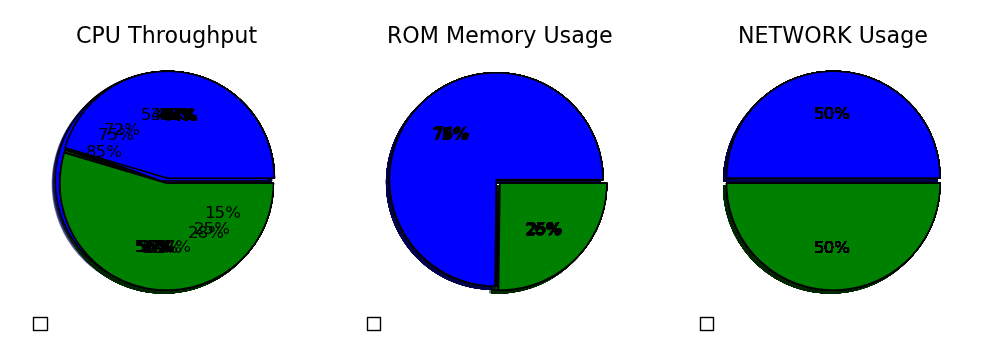
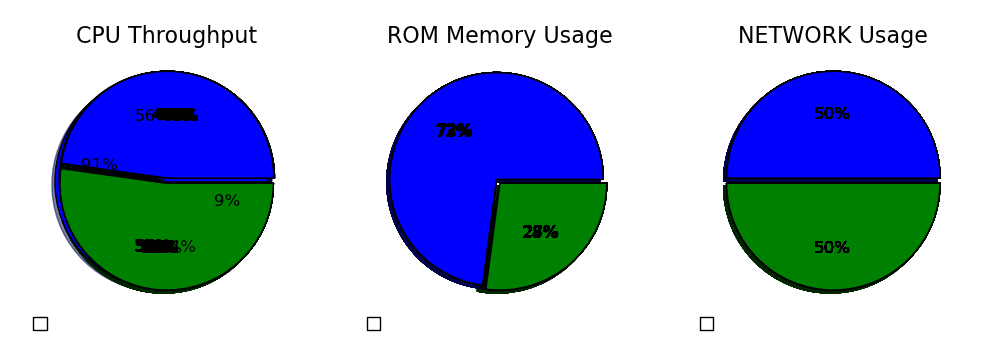
chart has some problem in diskplay

diff --git a/djangoMonitor/templates/resources.html b/djangoMonitor/templates/resources.html
@@ -12,7 +12,7 @@
         <a href="/filesystems/">[View File Systems]</a><br />
         <p>CPU Load Average: {{cpu_load}}%</p>
         <p>Memory Usage: {{mem_usage}}%</p>
-	<img src="/media/utilization.png">
+        <img src="/media/utilization.png" width="600" height="210">
         <h4>Realtime Monitor</h4>
         <pre>{{top|linebreaksbr}}</pre>
         <p></p>

diff --git a/djangoMonitor/resources/views.py b/djangoMonitor/resources/views.py
@@ -3,58 +3,59 @@ from django.shortcuts import render_to_response
 import os, string, settings
 from pylab import *
 
-def graphics(cpu, ram, network):
-    # create figure
-    figwidth = 10.0    # inches
-    figheight = 3.5   # inches
-    figure(1, figsize=(figwidth, figheight))
-    rcParams['font.size'] = 12.0
-    rcParams['axes.titlesize'] = 16.0
-    rcParams['xtick.labelsize'] = 12.0
-    rcParams['legend.fontsize'] = 12.0
-    explode=(0.05, 0.0)
-    colors=('b','g')
-    Ncols = 3
-    plotheight = figwidth/Ncols
-    H = plotheight/figheight
-    W = 1.0 / Ncols
-    margin = 0.1
-    left = [W*margin, W*(1+margin), W*(2+margin)]
-    bottom = H*margin
-    width = W*(1-2*margin)
-    height = H*(1-2*margin)
-    
-    # cpu utilization
-    utilized = cpu
-    free = 100.0 - utilized
-    fracs = [utilized, free]
-    axes([left[0], bottom, width, height])
-    patches = pie(fracs, colors=colors, explode=explode, autopct='%1.f%%', shadow=True)
-    title('CPU Throughput')
-    legend((patches[0], patches[2]), ('Processing', 'Idle'), loc=(0,-.05))
-    
-    # RAM utilization
-    utilized = ram
-    free = 100.0 - utilized
-    fracs = [utilized, free]
-    axes([left[1], bottom, width, height])
-    patches = pie(fracs, colors=colors, explode=explode, autopct='%1.f%%', shadow=True)
-    title('ROM Memory Usage')
-    legend((patches[0], patches[2]), ('Used', 'Unused'), loc=(0,-.05))
-    
-    # NET utilization
-    utilized = network
-    free = 100.0 - utilized
-    fracs = [utilized, free]
-    axes([left[2], bottom, width, height])
-    patches = pie(fracs, colors=colors, explode=explode, autopct='%1.f%%', shadow=True)
-    title('NETWORK Usage')
-    legend((patches[0], patches[2]), ('Used', 'Unused'), loc=(0,-.05))
-    
-    os.popen('rm static/utilization.png -rf')
-    savefig(settings.ROOT_PATH + '/static/' + 'utilization')
-    return 0
+
 def resources(request):
+    def graphics(cpu, ram, network):
+        # create figure
+        figwidth = 10.0    # inches
+        figheight = 3.5   # inches
+        figure(1, figsize=(figwidth, figheight))
+        rcParams['font.size'] = 12.0
+        rcParams['axes.titlesize'] = 16.0
+        rcParams['xtick.labelsize'] = 12.0
+        rcParams['legend.fontsize'] = 12.0
+        explode=(0.05, 0.0)
+        colors=('b','g')
+        Ncols = 3
+        plotheight = figwidth/Ncols
+        H = plotheight/figheight
+        W = 1.0 / Ncols
+        margin = 0.1
+        left = [W*margin, W*(1+margin), W*(2+margin)]
+        bottom = H*margin
+        width = W*(1-2*margin)
+        height = H*(1-2*margin)
+
+        # cpu utilization
+        cpu_utilized = cpu
+        free = 100.0 - cpu_utilized
+        fracs = [cpu_utilized, free]
+        axes([left[0], bottom, width, height])
+        patches = pie(fracs, colors=colors, explode=explode, autopct='%1.f%%', shadow=True)
+        title('CPU Throughput')
+        legend((patches[0], patches[2]), ('Processing', 'Idle'), loc=(0,-.05))
+
+        # RAM utilization
+        ram_utilized = ram
+        free = 100.0 - ram_utilized
+        fracs = [ram_utilized, free]
+        axes([left[1], bottom, width, height])
+        patches = pie(fracs, colors=colors, explode=explode, autopct='%1.f%%', shadow=True)
+        title('ROM Memory Usage')
+        legend((patches[0], patches[2]), ('Used', 'Unused'), loc=(0,-.05))
+
+        # NET utilization
+        net_utilized = network
+        free = 100.0 - net_utilized
+        fracs = [net_utilized, free]
+        axes([left[2], bottom, width, height])
+        patches = pie(fracs, colors=colors, explode=explode, autopct='%1.f%%', shadow=True)
+        title('NETWORK Usage')
+        legend((patches[0], patches[2]), ('Used', 'Unused'), loc=(0,-.05))
+
+        os.popen('rm static/utilization.png -rf')
+        savefig(settings.ROOT_PATH + '/media/' + 'utilization')
+        return 0
     def cpu_usage():
         usage = os.popen("ps aux|awk 'NR > 0 { s +=$3 }; END {print s}'").read().strip()
         return usage
@@ -69,8 +70,8 @@ def resources(request):
         return net_usage
     cpu_usage = string.atof(cpu_usage())
     mem_usage = string.atof(mem_usage())
-    top = top()
     net_usage = net_usage()
+    top = top()
     graphics(cpu_usage, mem_usage, net_usage)
     return render_to_response('resources.html', {
         'cpu_load': cpu_usage,
